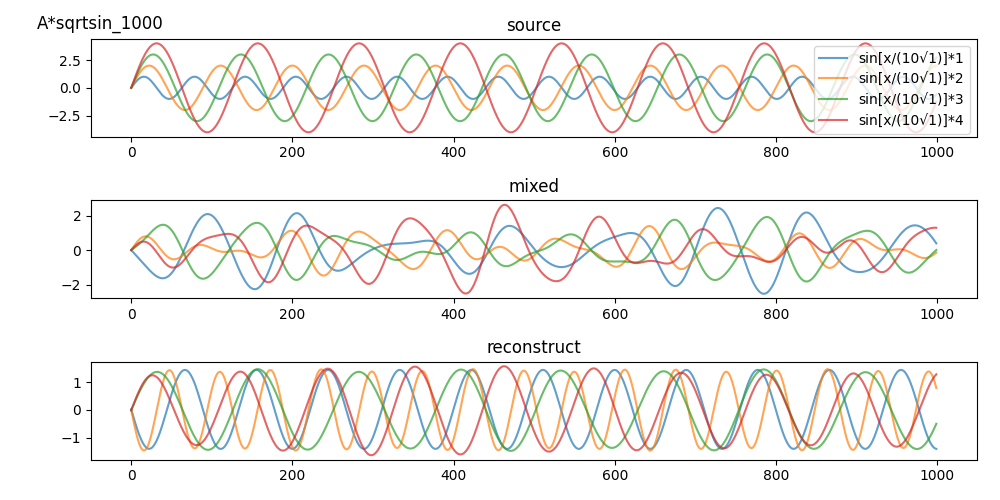
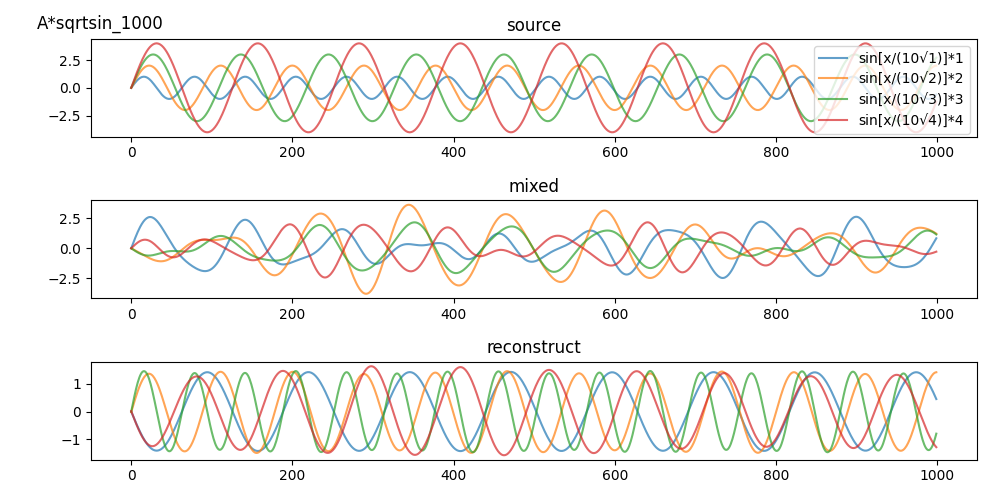
push

diff --git a/fastica_test.py b/fastica_test.py
@@ -78,14 +78,14 @@ def fastica_report(dataset: Dataset):
     f.close()
 
 if __name__ == '__main__':
-    fastica_report(DATADICT["isin_1000"])
-    fastica_report(DATADICT["sqrtsin_1000"])
-    fastica_report(DATADICT["sin2_chebyt2_1000"])
-    fastica_report(DATADICT["chebyt2-5_1000"])
-    fastica_report(DATADICT["chebyt10_1000"])
-    fastica_report(DATADICT["sin+x_1000"])
-    fastica_report(DATADICT["sin+2x_1000"])
-    fastica_report(DATADICT["A*sin_1000"])
-    fastica_report(DATADICT["Adiv2*sin_1000"])    
-    fastica_report(DATADICT["Adiv2*sin_5000"])    
+    # fastica_report(DATADICT["isin_1000"])
+    # fastica_report(DATADICT["sqrtsin_1000"])
+    # fastica_report(DATADICT["sin2_chebyt2_1000"])
+    # fastica_report(DATADICT["chebyt2-5_1000"])
+    # fastica_report(DATADICT["chebyt10_1000"])
+    # fastica_report(DATADICT["sin+x_1000"])
+    # fastica_report(DATADICT["sin+2x_1000"])
+    # fastica_report(DATADICT["A*sin_1000"])
+    # fastica_report(DATADICT["Adiv2*sin_1000"])    
+    # fastica_report(DATADICT["Adiv2*sin_5000"])    
     fastica_report(DATADICT["A*sqrtsin_1000"])

diff --git a/easi_test.py b/easi_test.py
@@ -85,14 +85,14 @@ def easi_report(dataset: Dataset):
     f.close()
 
 if __name__ == '__main__':
-    easi_report(DATADICT["isin_10000"])
-    easi_report(DATADICT["sqrtsin_10000"])
-    easi_report(DATADICT["sin2_chebyt2_10000"])
-    easi_report(DATADICT["chebyt2-5_10000"])
-    easi_report(DATADICT["chebyt10_10000"])
-    easi_report(DATADICT["sin+x_10000"])
-    easi_report(DATADICT["sin+2x_10000"])
-    easi_report(DATADICT["A*sin_10000"])
-    easi_report(DATADICT["Adiv2*sin_10000"])    
+    # easi_report(DATADICT["isin_10000"])
+    # easi_report(DATADICT["sqrtsin_10000"])
+    # easi_report(DATADICT["sin2_chebyt2_10000"])
+    # easi_report(DATADICT["chebyt2-5_10000"])
+    # easi_report(DATADICT["chebyt10_10000"])
+    # easi_report(DATADICT["sin+x_10000"])
+    # easi_report(DATADICT["sin+2x_10000"])
+    # easi_report(DATADICT["A*sin_10000"])
+    # easi_report(DATADICT["Adiv2*sin_10000"])    
     # easi_report(DATADICT["Adiv2*sin_5000"])    
     easi_report(DATADICT["A*sqrtsin_10000"])

diff --git a/eval/dataset.py b/eval/dataset.py
@@ -124,7 +124,7 @@ DATALIST = [
         S=concat(
             [[(i+1)*np.sin(j/10/np.sqrt(i+1)) for j in range(1000)] for i in range(4)]
         ),
-        labels=[LabelOption(label=f"sin[x/(10√1)]*{i+1}") for i in range(4)],
+        labels=[LabelOption(label=f"sin[x/(10√{i+1})]*{i+1}") for i in range(4)],
     ),
 
 # 10000点づつのデータ
@@ -224,7 +224,7 @@ DATALIST = [
         S=concat(
             [[(i+1)*np.sin(j/10/np.sqrt(i+1)) for j in range(10000)] for i in range(4)]
         ),
-        labels=[LabelOption(label=f"sin[x/(10√1)]*{i+1}") for i in range(4)],
+        labels=[LabelOption(label=f"sin[x/(10√{i+1})]*{i+1}") for i in range(4)],
     ),
 ]
 
